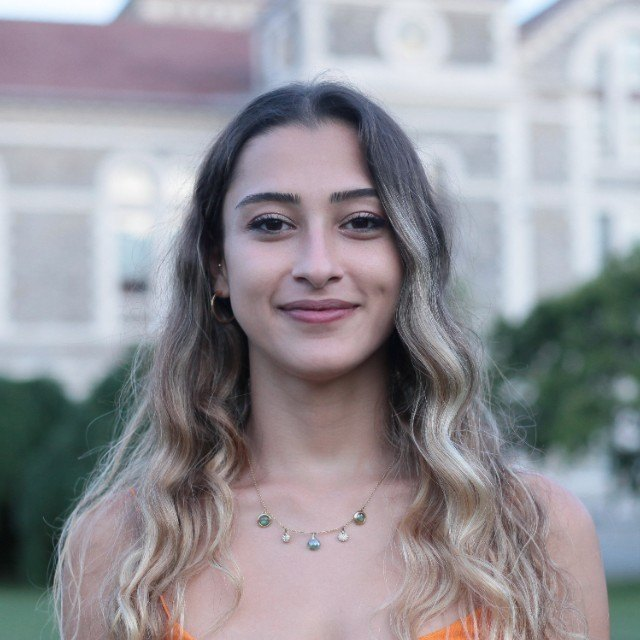
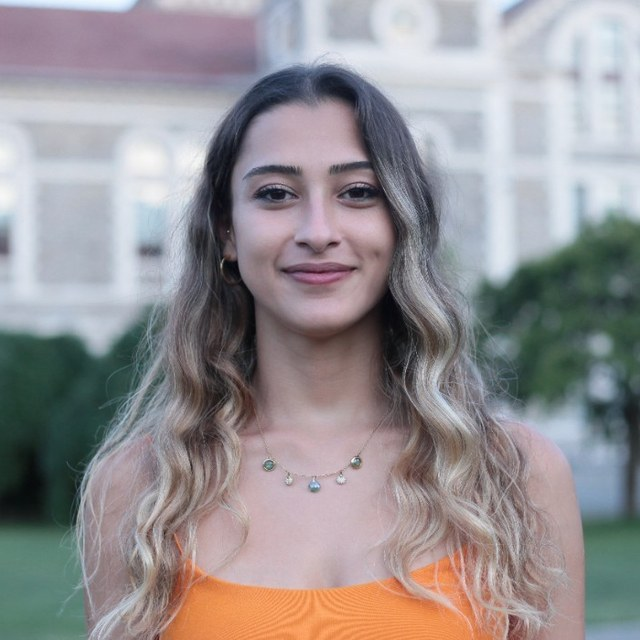
home: wider portrait crop, and cut a line from the Dispatch blurb
The file on the site was cropped tight enough that the dress only existed
in the corners the circle clips off. Recropped from the 800x800 original,
which had more frame in it than the published file did. Same 640x640, same
weight.

The Dispatch paragraph loses its last sentence. The calendar button and the
source links are things you find by using it, not claims the blurb has to
make.

diff --git a/public/index.html b/public/index.html
@@ -149,8 +149,7 @@
         The eleven tabs I open every morning, on one page. AI and tech, markets
         and M&amp;A, news about the US and Turkey (my home country), and the
         fixtures worth getting up for, such as the Champions League, Sultanlar
-        Ligi and the NBA. One button drops a game into my calendar in California
-        time, and every story links to the source it came from.
+        Ligi and the NBA.
       </p>
       <p class="actions actions--tight">
         <a class="btn" href="/dispatch">Read today&rsquo;s edition <span aria-hidden="true">&rarr;</span></a>
